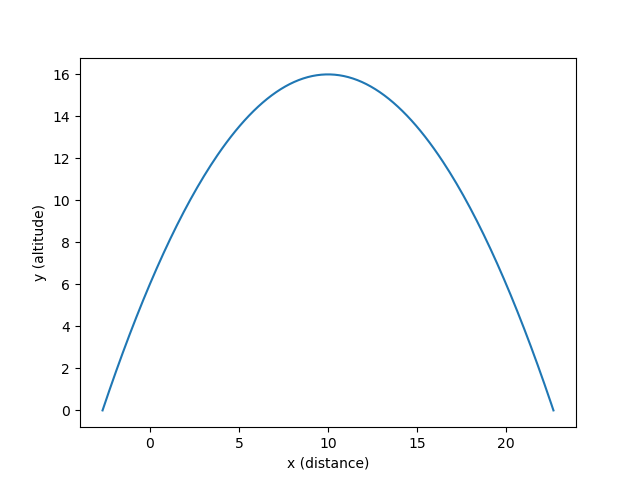
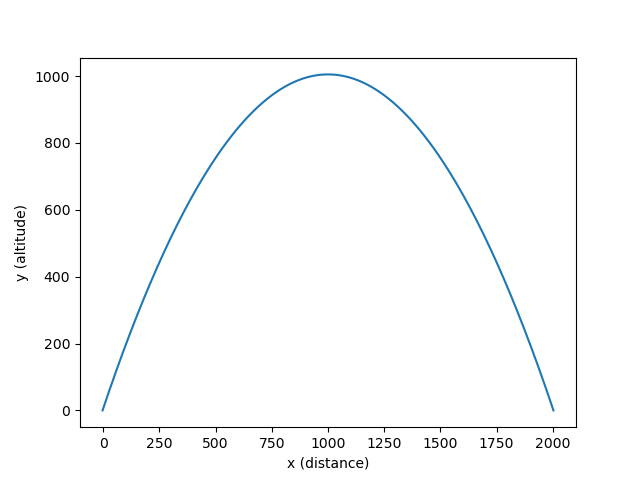
version finale 2(toujours améliorable)

diff --git a/trajectoireBallon_v3.py b/trajectoireBallon_v3.py
@@ -48,21 +48,19 @@ def calc_y(a,b,c,x):
 # __Fonction qui trace la courbe__
 def trajectoireBallon(a,b,c):
 
+    if a >= 0:
+        raise ValueError("a doit être négatif pour une trajectoire en cloche")
+
     d = b**2 - 4*a*c
 
-    # y n'admet aucune solution si d est negatif
-    if d < 0:
-        print("Δ < 0 : pas de racine réelle, le ballon ne touche jamais le sol")
-        exit() # /!\ On quitte le programme ici
+    if d <= 0:
+        raise ValueError("Δ ≤ 0 : le ballon ne touche pas le sol")
 
-    elif d == 0:
-        r0 = calc_racine0(a,b)
-    else:
-        r1 = calc_racine1(a,b,d)
-        r2 = calc_racine2(a,b,d)
-        # on conserve en variables le point de départ du ballon, et l'endroit où il retouche le sol
-        x_depart = min(r1,r2)
-        x_arrivee = max(r1,r2)
+    r1 = calc_racine1(a,b,d)
+    r2 = calc_racine2(a,b,d)
+    # on conserve en variables le point de départ du ballon, et l'endroit où il retouche le sol
+    x_depart = min(r1,r2)
+    x_arrivee = max(r1,r2)
 
     # Question 2 : tracé entre les deux racines avec matplotlib
 
@@ -172,8 +170,8 @@ valeurC.place(x=50,y=525)
 # buttonC.place(x=50,y=550)
 
 buttonStart.place(x=500,y=800)
-
-window.iconphoto(True,icon)
+window.update()
+window.iconphoto(True, icon)
 
 # afficher la fenêtre
 window.mainloop() 

diff --git a/Journal.md b/Journal.md
@@ -68,3 +68,6 @@ J'ai pu avoir le template pour la fenêtre désirée: l'apparenc me convient en 
 sandbox.py ouvre une fenêtre avec 3 champs, pour a, b et c, un bouton valider et l'espace apperçu. Il devra afficher la courbe correspondante si les conditions sont favorables, ou un message d'erreur sera indiqué autrement.
 ### TrajectoireBallon_V3 (version finale)
 Il reste encore des choses à finir dans ce programme, mais il fonctionne déjà bien pour s'assurer que l'utilisateur ne mette que des valeurs numériques d'une part, puis trace la courbe tant que le la valeur de a est négative.
+J'ai pu corriger le code pour ne plus faire planter le programme: il suffit de ne pas executer "exit()" en cas d'erreur, mais de relever l'erreur et de faire afficher l'image correspondante.
+
+Le programme est donc enfin terminé. Il ne reste plus qu'à préparer la présentation.
